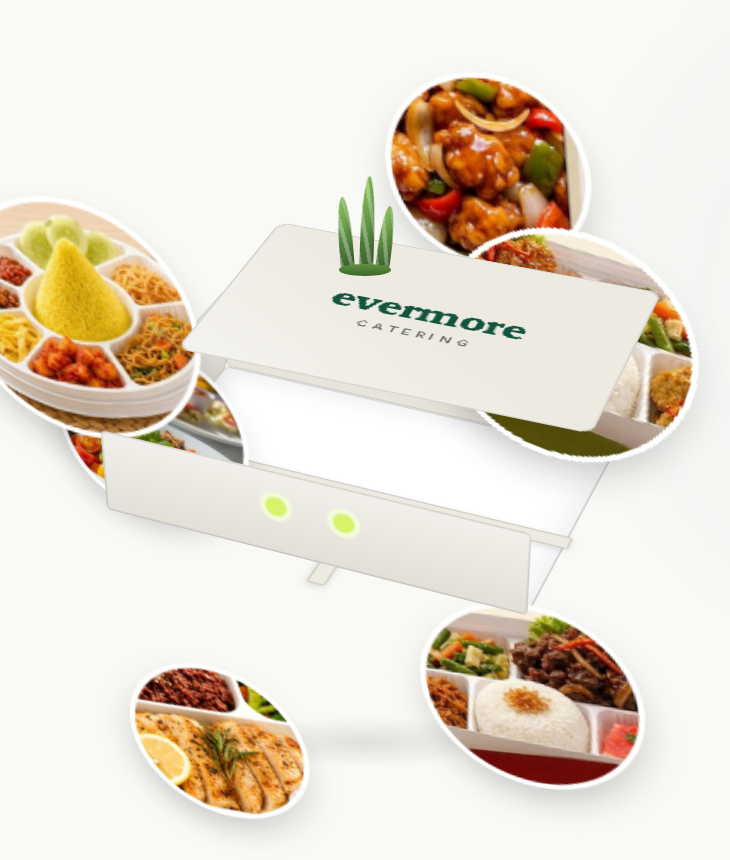
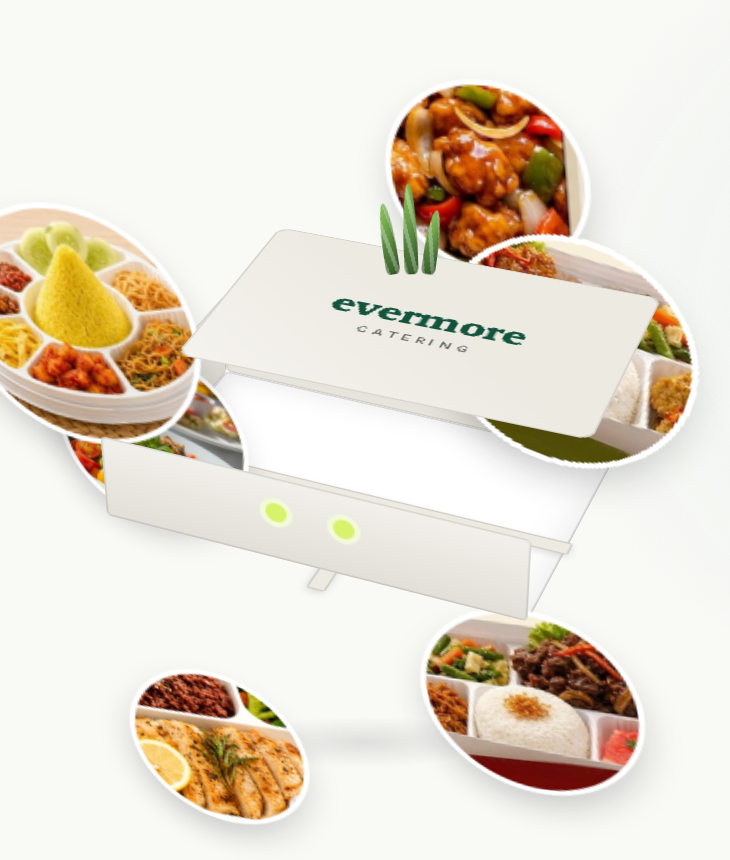
fix(hero): the tuft rides the lid, and remove the ste/ven signature
The tuft hung in front of the box instead of sitting on it. It is a 2D overlay
(that is the whole reason it is visible — .bf-lid has no preserve-3d), so it
cannot inherit the lid's transform and has to reproduce the motion in screen
space. It now does that in two layers that mirror the box's own two:

  .bot-tuft  runs .bot-rig's botHover verbatim — same keyframes, duration and
             easing, so it is in phase by construction rather than by tuning
  .bot-hair  runs the lid's own bob

Two wrong answers on the way, both recorded in the CSS so the next person does
not repeat them. Replicating only the lid's bob leaves it beating against the
6s rig float — equal amplitude, drifting phase, because 3.2s and 6s never line
up. And measuring the lid while the rig is still floating folds the rig's 16px
into the lid's own figures, so feeding those back double-counts the float. The
numbers in the CSS are measured with the rig frozen, from the lid's CENTRE --
its bounding box is inflated on both sides by the lid's yaw and reports travel
that is not there.

Verified by sampling both centres through a full cycle: the gap between lid and
tuft varies by 0.26px closed and 0.55px open, and holds across the open
transition (55.5 -> 56.1). Screenshots at two phases and open.

The lid was also animating forever under prefers-reduced-motion; only its
transitions were being collapsed. It and the tuft now rest together.
[…]

diff --git a/web/public/css/app.css b/web/public/css/app.css
@@ -677,6 +677,8 @@ tbody tr:hover { background: var(--warm); }
 @media (prefers-reduced-motion: reduce) {
   .bot-rig { animation: none; transform: rotateX(-15deg) rotateY(-10deg); }
   .bot-eye { animation: none; }
+  /* The lid and its tuft stop together — stopping one would detach them. */
+  .bf-lid, .bot-hair, .bot-tuft { animation: none; }
   .bot-face, .bot-part, .bot-floor { transition-duration: 1ms; }
 }
 
@@ -846,15 +848,66 @@ tbody tr:hover { background: var(--warm); }
  * same reason each time: .bf-lid has no preserve-3d, so its children flatten
  * into the lid's own plane and the blades disappeared edge-on. A flat overlay
  * is both visible and far easier to reason about. */
-.bot-hair {
+/* The tuft rides the lid, and the lid rides the rig.
+ *
+ * It cannot inherit the lid's transform — it is a 2D overlay precisely because
+ * .bf-lid has no preserve-3d — so it reproduces the lid's motion in screen
+ * space instead, in two layers that mirror the box's own two layers:
+ *
+ *   .bot-tuft  carries .bot-rig's float, by running the SAME animation with
+ *              the same duration and easing, so it is in phase by construction
+ *   .bot-hair  carries the lid's own bob
+ *
+ * Replicating only the lid's bob is what a first attempt did, and it beat
+ * visibly against the 6s rig float: equal amplitude, drifting phase. The two
+ * periods are 3.2s and 6s and never line up.
+ *
+ * The bob numbers are MEASURED, not derived. The lid moves on a plane turned
+ * by rotateX(-90deg), so its `translateY` is not a screen-space Y and
+ * arithmetic on the keyframe values gives the wrong answer. Sampling the lid's
+ * CENTRE — not its bounding box, which the lid's yaw inflates on both sides —
+ * through a full cycle at 1280px gives:
+ *
+ *   closed (lidRest, 3.2s)  rises 12.8px, drifts 8.3px right
+ *   open   (lidBob,  2.8s)  rises 11.1px, drifts 6.6px right
+ *   opening                 lifts the centre 28.6px, moves it 20.2px right
+ *
+ * Those figures are the lid's motion with the RIG FLOAT FROZEN. Measuring it
+ * running instead folds the rig's 16px into the lid's own numbers, and feeding
+ * that back in double-counts the float — which is what a second attempt did.
+ *
+ * The lid's `from` is its LOW point, so the tuft's `from` is low too, and the
+ * offsets are mean-centred so `bottom` stays the resting position. */
+.bot-tuft {
   position: absolute; left: 50%; z-index: 3;
-  translate: -50% 0; pointer-events: none;
-  width: 60px; height: 58px;
-  transition: bottom var(--dur) var(--ease);
+  /* Centred with a margin, not `translate`: `translate` carries the motion. */
+  margin-left: -30px;
+  pointer-events: none;
+  /* Identical to .bot-rig, so the float matches rather than approximates. */
+  scale: var(--box-scale);
+  animation: botHover 6s var(--ease-soft) infinite alternate;
+  transition: bottom var(--dur) var(--ease), margin-left var(--dur) var(--ease);
 }
+.bot-hair { display: block; width: 60px; height: 58px; }
+
 /* Positioned against the lid, which sits a little above the box centre. */
-.bot-pair .bot-stage .bot-hair { bottom: calc(50% + 51px * var(--box-scale)); }
-.bot-stage.is-open .bot-hair   { bottom: calc(50% + 77px * var(--box-scale)); }
+.bot-pair .bot-stage .bot-tuft { bottom: calc(50% + 51px * var(--box-scale)); }
+.bot-stage.is-open .bot-tuft {
+  bottom: calc(50% + 79px * var(--box-scale));
+  margin-left: calc(-30px + 20px * var(--box-scale));
+}
+/* The bob is inside .bot-tuft, which is already scaled, so these are plain px. */
+.bot-hair           { animation: hairRest 3.2s var(--ease-soft) infinite alternate; }
+.is-open .bot-hair  { animation: hairBob  2.8s var(--ease-soft) infinite alternate; }
+@keyframes hairRest {
+  from { translate: -4.2px 6.4px; }
+  to   { translate: 4.2px -6.4px; }
+}
+@keyframes hairBob {
+  from { translate: -3.3px 5.6px; }
+  to   { translate: 3.3px -5.6px; }
+}
+}
 
 /* One root, three separate blades. They have to be narrow enough, and spaced
  * far enough apart, that the lid shows between them — at 10px wide and 6px
@@ -911,23 +964,6 @@ tbody tr:hover { background: var(--warm); }
 }
 
 @media (prefers-reduced-motion: reduce) { .blade { animation: none; } }
-
-/* ---- the signature (D54) --------------------------------------------------
- * Two syllables that lift in turn. Decorative, so it is aria-hidden and the
- * heading it sits beside still reads correctly to a screen reader. */
-.sig { display: inline-flex; gap: 1px; vertical-align: baseline; }
-.sig span {
-  display: inline-block; color: var(--brand);
-  font-family: var(--font-display); font-style: italic; font-weight: var(--w-display);
-  animation: sigWave 2.6s var(--ease-soft) infinite;
-}
-.sig span:last-child { animation-delay: .32s; }
-@keyframes sigWave {
-  0%, 62%, 100% { transform: translateY(0) rotate(0deg); }
-  18%           { transform: translateY(-26%) rotate(-5deg); }
-  38%           { transform: translateY(0) rotate(3deg); }
-}
-@media (prefers-reduced-motion: reduce) { .sig span { animation: none; } }
 
 /* ---- testimonials (D53) -------------------------------------------------- */
 .testi-grid { display: grid; gap: var(--space-5); grid-template-columns: repeat(auto-fit, minmax(260px, 1fr)); }

diff --git a/web/templates/home.html b/web/templates/home.html
@@ -23,8 +23,10 @@
               aria-describedby="bot-hint"
               aria-label="{{t .L "box.aria"}}">
         <span class="bot-floor" aria-hidden="true"></span>
-        <span class="bot-hair" aria-hidden="true">
-          <span class="blade blade-1"></span><span class="blade blade-2"></span><span class="blade blade-3"></span>
+        <span class="bot-tuft" aria-hidden="true">
+          <span class="bot-hair">
+            <span class="blade blade-1"></span><span class="blade blade-2"></span><span class="blade blade-3"></span>
+          </span>
         </span>
         <span class="bot-rig" aria-hidden="true">
           <span class="bot-spin" id="bot-spin-a">
@@ -182,7 +184,7 @@
     <div class="section-head">
       <div>
         <p class="eyebrow">Lebih hemat</p>
-        <h2>{{t .L "pkg.title"}} <span class="sig" aria-hidden="true"><span>ste</span><span>ven</span></span></h2>
+        <h2>{{t .L "pkg.title"}}</h2>
       </div>
     </div>
     <div class="card-grid">

diff --git a/docs/00-README-and-decisions.md b/docs/00-README-and-decisions.md
@@ -134,9 +134,10 @@ in the affected docs the same day.
 | D51 | 2026-10-13 | **The header becomes the primary green with its own measured ink set; the language switch uses drawn SVG flags; the week strip loses its button and gains a divider; the footer is compacted and carries backend-managed social links.** `longDate` becomes locale-aware. | Steven, in several rounds. The header inks are declared on `.masthead` itself (`--head-ink` white 8.88, `--head-ink-soft` #BFD3C9 5.66, accent 7.12) rather than taken from the page tokens, which are for a light ground — the same class of fault as D42. Flags are **drawn SVG, not emoji**: emoji flags do not render on Windows at all, which shows two letters instead. `longDate` used hardcoded Indonesian tables, so an English page read *"Menu for Selasa, 13 Oktober 2026"* — the one homepage string the switch never reached. Social links are `sys_parameters`, so a channel is added or removed without a deploy and an empty value hides it; the labels are words because official brand marks are licensed assets Evermore does not yet hold. `verify-ui` caught the compacted footer putting a link under the WhatsApp float. | app.css, base.html, public.go, backoffice.go, seed.go, messages.go |
 | D52 | 2026-10-13 | **Two hero boxes.** A keeps the paper shell and grows three swaying blades; B is a light green `#D7E8D2` and opens onto buffet trays. Every sensor light runs its own duration and delay. The stats row gains soft gradient separators. | Steven. The interaction binds **per element** now rather than by id — two hardcoded ids is what made the duplicated second box inert, and `id="bot-spin"` was duplicated, which is invalid besides. Box B's label ink is darkened: `--ink-faint` measures 4.25 on that shell, under the floor. Box B's six chips are six different crops of ONE verified buffet photograph rather than files I had not opened — `use-acara.jpg` turned out to carry a baked-in graphic overlay. | app.css, home.html, app.js |
 | D53 | 2026-10-13 | **A testimonial section above the footer, the package cards get the week-strip hover, the duplicate "Menu for …" section is removed, and the scrolled header goes translucent at 94%.** | The testimonial people are **placeholders**: lorem ipsum quotes and initial avatars, not invented customers with stock faces. 94% is not an arbitrary pick — composited over the paper, the lightest thing that can pass behind the bar, the idle nav links measure 4.84 at 0.94 and 4.40 at 0.90, so the glass stops where legibility does. | home.html, app.css, messages.go |
-| D54 | 2026-10-13 | **Each box returns to the size the single box was, side by side and overlapping slightly; the hero headline shrinks to give them the room; box A's tuft sits ON the lid; opening one box closes the other; and the packages heading carries an animated `ste`/`ven` signature.** | Steven. The tuft is drawn as a **2D overlay over the stage**, not parented to the lid: three attempts at putting it inside the 3D box all failed the same way — `.bf-lid` has no `preserve-3d`, so its children flatten into the lid's own plane and the blades vanished edge-on. Only one box opens at a time, via a document event, because two trays scattering at once is twice the motion and half the focus. The homepage packages heading was also still an untranslated literal and is now keyed. | app.css, home.html, packages.html, app.js |
+| D54 | 2026-10-13 | **Each box returns to the size the single box was, side by side and overlapping slightly; the hero headline shrinks to give them the room; box A's tuft sits ON the lid; opening one box closes the other; and the packages heading carries an animated `ste`/`ven` signature (**removed again in D57**).** | Steven. The tuft is drawn as a **2D overlay over the stage**, not parented to the lid: three attempts at putting it inside the 3D box all failed the same way — `.bf-lid` has no `preserve-3d`, so its children flatten into the lid's own plane and the blades vanished edge-on. Only one box opens at a time, via a document event, because two trays scattering at once is twice the motion and half the focus. The homepage packages heading was also still an untranslated literal and is now keyed. | app.css, home.html, packages.html, app.js |
 | D55 | 2026-10-13 | **Box A's tuft stands upright as three separate blades from one root, with the root sitting just clear of the `evermore` wordmark.** | Steven, looking at it: at 10px wide and 6px apart the three blades overlapped into a single leaf. They are now 7px wide with the lid showing between them, lean only 7°, and share one wider root. The root was also sitting *on* the wordmark; it now clears the cap height. Screenshots in `docs/screenshots/d54-two-boxes/`. | app.css |
 | D56 | 2026-10-13 | **The last five public pages are on the catalogue, and so are the things the templates could not reach: page titles, the tier-range helper, the published-until date, the WhatsApp label and the home page's SEO copy.** | Steven: *"translate the remaining public pages"*. The template pass alone left English pages reading `Untuk kantor — Evermore` in the tab and `1 – 3 porsi` in the price table, because those strings are built in Go. Titles now come from `seo.<route>.title` and are applied **after** `base()`, since `base()` is what negotiates the locale. The home page's title and description stay back-office-editable and gain per-locale rows (`seo.default_title.en`), read through a new `param()` helper, rather than being hard-coded into the catalogue and taking the knob away. `monthID` lost its last caller and is gone. 67 keys added, 361 per locale, symmetric. | messages.go, public.go, seed.go, how.html, meal.html, menu.html, corporate.html, coverage.html, packages.html, home.html, base.html, 11-i18n.md |
+| D57 | 2026-10-13 | **The tuft moves with the lid instead of hanging in front of it, and the `ste`/`ven` signature is removed.** | Steven: the hair *"must same like the lid, somehow like attached"*, and *"remove all the ste and ven stuff, its totally wrong"*. The tuft is a 2D overlay (D55) and cannot inherit the lid's transform, so it reproduces the motion in two layers matching the box's own: `.bot-tuft` runs the rig's `botHover` verbatim, `.bot-hair` runs the lid's bob. The bob figures are **measured with the rig float frozen** — measuring it running folds the rig's 16px into the lid's numbers and feeding that back double-counts the float. Verified by sampling both centres for a full cycle: the gap between lid and tuft varies by **0.26px closed and 0.55px open**, and holds across the open transition (55.5 → 56.1). The lid also stopped bobbing forever under `prefers-reduced-motion`, which it should never have done. | app.css, home.html |
 
 ---
 
